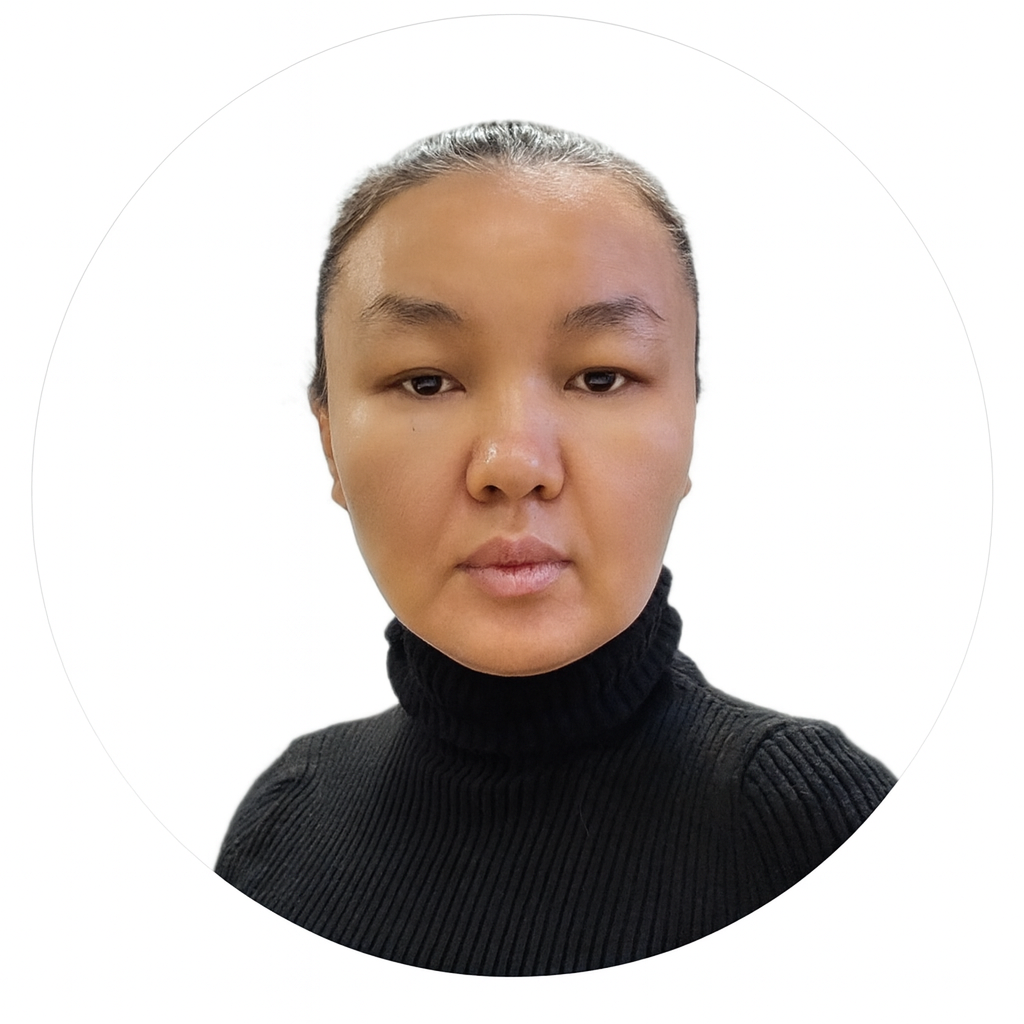
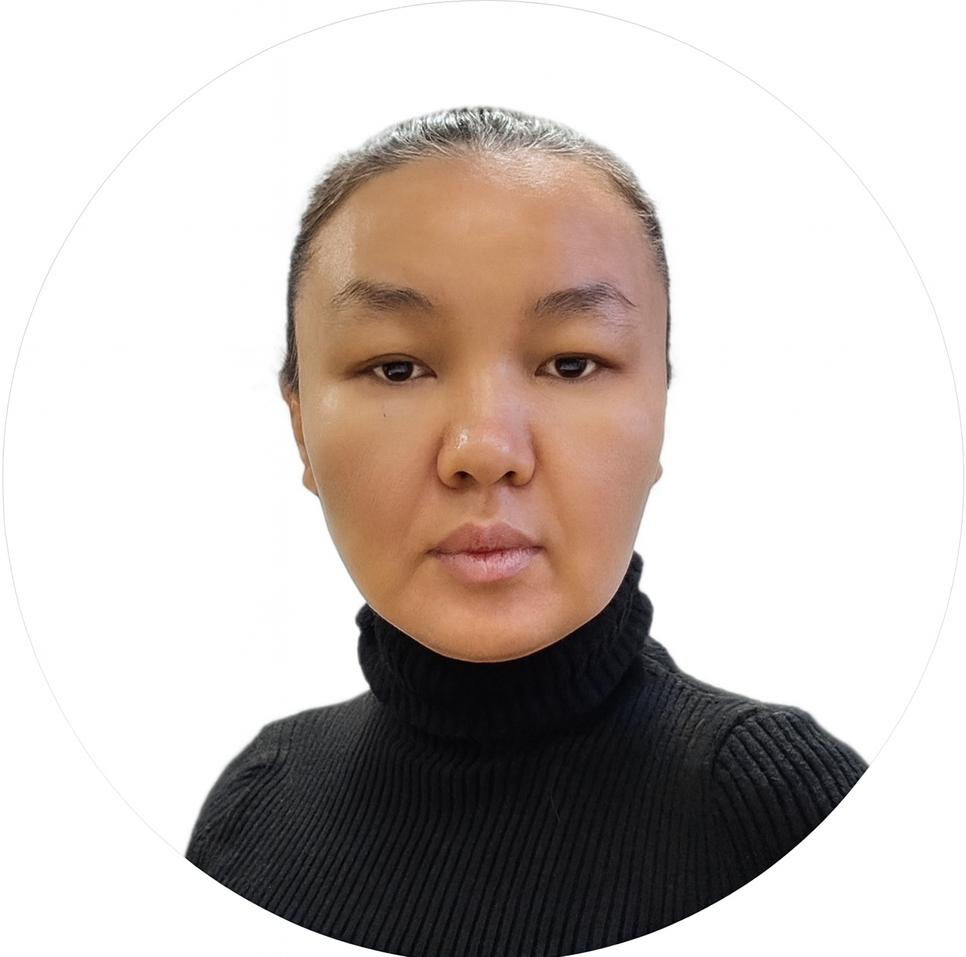
Refactor code structure for improved readability and maintainability

Changed region(s): [[0.1863, 0.0909, 0.9006, 1.0], [0.9938, 0.4545, 1.0, 0.5455]]

diff --git a/src/widgets/MainPage/TeamSection/ui/TeamSection.tsx b/src/widgets/MainPage/TeamSection/ui/TeamSection.tsx
@@ -171,6 +171,17 @@ export const TeamSection = () => {
         'Гражданское право, административное право, семейное право, трудовое право',
       image: '/assets/images/diana.png',
     },
+    {
+      id: 13,
+      name: 'Гульфия Успанова',
+      position: 'Юридический консультант',
+      experience: 'Опыт работы более 5 лет',
+      moreExperience:
+        'Практикующий юрист, специализируюсь на защите прав граждан и оказании правовой помощи в сложных жизненных и финансовых ситуациях.\nРаботаю с клиентами честно, без приукрашиваний — только реальные пути решения через закон. г. Павлодар, консультирую онлайн и офлайн\n\nОсновные направления:\n• Банкротство физических лиц\n• Взыскание долгов, защита должников\n• Трудовые отношения и невыплата заработной платы\n• Взаимодействие с банками, МФО, коллекторами\n• Подготовка жалоб, заявлений, исков',
+      description:
+        'Гражданское право, административное право, трудовое право, исполнительное производство',
+      image: '/assets/images/gulfia.png',
+    },
   ]
 
   // Убираем дублирование для более чистого отображения

diff --git a/src/shared/ui-kit/Sidebar/Sidebar.tsx b/src/shared/ui-kit/Sidebar/Sidebar.tsx
@@ -17,7 +17,7 @@ import ApplicationsIcon from '@/app/assets/icons/dashboard-icons/my-applications
 import ChatIcon from '@/app/assets/icons/dashboard-icons/chat.svg'
 import SubscriptionIcon from '@/app/assets/icons/dashboard-icons/subscription.svg'
 import FaqIcon from '@/app/assets/icons/dashboard-icons/faq.svg'
-import SupportIcon from '@/app/assets/icons/dashboard-icons/support.svg'
+// import SupportIcon from '@/app/assets/icons/dashboard-icons/support.svg' // hidden by request
 import ZangerIcon from '@/app/assets/icons/dashboard-icons/ZANGER.svg'
 // removed logout icon per new design
 
@@ -79,12 +79,7 @@ export const Sidebar = ({ language, onMobileClose }: SidebarProps) => {
             icon: FaqIcon,
             href: `/${language}/dashboard/faq`,
         },
-        {
-            id: 'support',
-            title: t('dashboard.sidebar.support'),
-            icon: SupportIcon,
-            href: `/${language}/dashboard/support`,
-        },
+        // Support menu item hidden per requirement
     ]
 
     // Фильтруем пункты меню в зависимости от роли

diff --git a/src/widgets/MainPage/MainSection/ui/MainSection.module.scss b/src/widgets/MainPage/MainSection/ui/MainSection.module.scss
@@ -240,6 +240,19 @@ $header-height-sm: 56px; // mobile
 		white-space: nowrap; // enforce single line
 	}
 
+	// Mobile-only placement of the hubs badge under the title
+	.hubsBadgeMobile {
+		display: none;
+		@media (max-width: 768px) {
+			display: flex;
+			align-items: center;
+			justify-content: center;
+			width: 100%;
+			gap: 8px;
+			margin: 14px 0 10px 0; // a bit lower from the button
+		}
+	}
+
 	.hubsLogo {
 		flex-shrink: 0;
 		border-radius: 0;
@@ -249,11 +262,11 @@ $header-height-sm: 56px; // mobile
 		height: auto;
 		
 		@media (max-width: 768px) {
-			width: min(120px, 34vw); // slightly larger on tablets/phones
+			width: min(200px, 60vw); // even larger on phones
 		}
 		
 		@media (max-width: 480px) {
-			width: min(136px, 40vw); // slightly larger on small phones
+			width: min(220px, 70vw); // maximum for small phones
 		}
 	}
 

diff --git a/src/widgets/MainPage/MainSection/ui/MainSection.tsx b/src/widgets/MainPage/MainSection/ui/MainSection.tsx
@@ -44,6 +44,16 @@ export const MainSection = () => {
 								<Image src={phone} alt="Phone" className={s.phoneIcon} width={24} height={24} />
 								{t('phoneButton')}
 							</Link>
+							{/* Mobile-only Astana Hub badge placed right after the call button */}
+							<div className={s.hubsBadgeMobile}>
+								<Image
+									src={HubsLogo}
+									alt="Astana Hub"
+									width={hubsDimensions.width}
+									height={hubsDimensions.height}
+									className={s.hubsLogo}
+								/>
+							</div>
 						{/* <div className={s.requestButtonContainer}>
 							<Link href="/" className={s.requestButton}>
 								{t('createNew')}

diff --git a/src/widgets/MainPage/TeamSection/ui/TeamSection.module.scss b/src/widgets/MainPage/TeamSection/ui/TeamSection.module.scss
@@ -666,7 +666,7 @@
 }
 
 // равномерное распределение по всей длине трека
-$cards-count: 12; // keep in sync with actual number of cards
+$cards-count: 13; // keep in sync with actual number of cards
 // slightly faster autoplay (~10-12% faster)
 $duration-desktop: 45s; // was 51s
 $duration-tablet: 39s;  // was 44s
